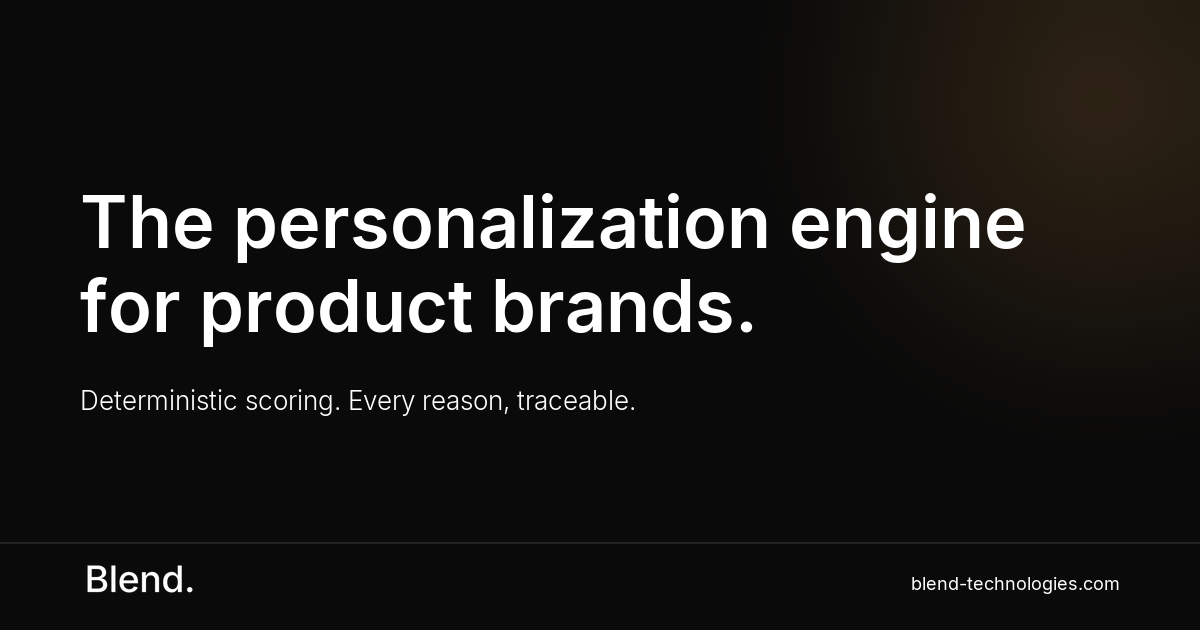
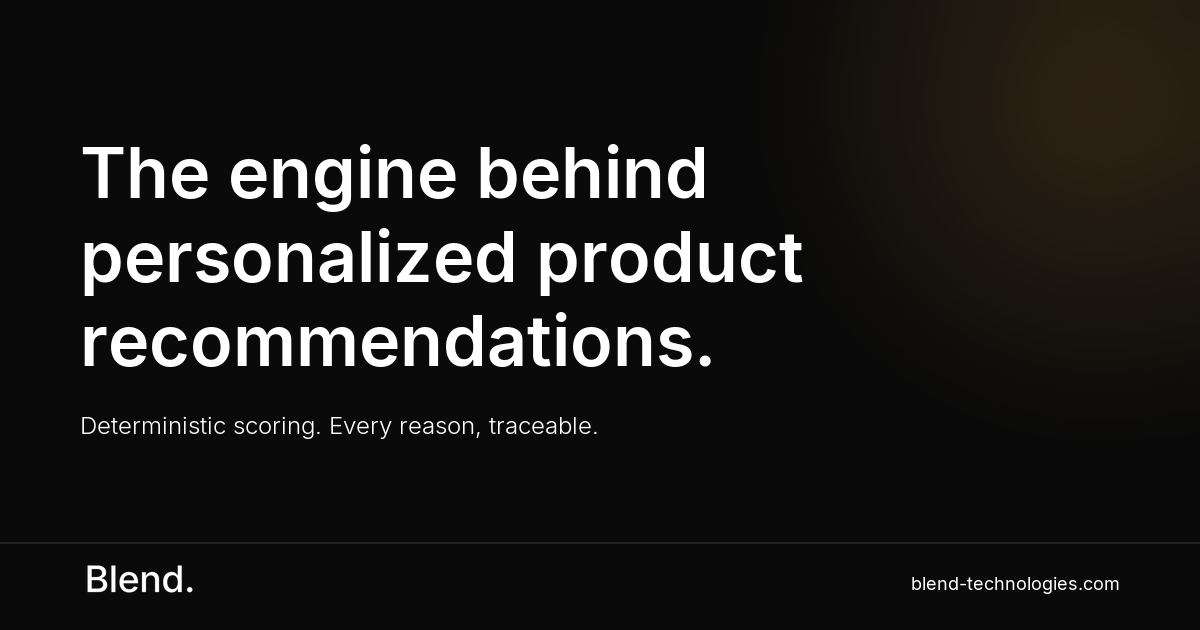
Sync tagline across the site: "The engine behind personalized product recommendations"
Replaces "The personalization engine for product brands" everywhere
it appeared. This is the new brand tagline going forward — same phrase
we'll use on LinkedIn.

Files updated (9 HTML):
  index.html, try.html, product-example.html, privacy.html, terms.html,
  use-cases/{index,shopify,supplement-brands,compare}.html

Footer tags, Organization JSON-LD description, SoftwareApplication
JSON-LD description all updated. Meta descriptions and OG descriptions
untouched (they carry longer copy that doesn't include the tagline).

OG image regenerated with the new headline split across 3 lines at
70pt Inter SemiBold — subheadline unchanged.

Changed region(s): [[0.0617, 0.2111, 0.8633, 0.6937]]

diff --git a/index.html b/index.html
@@ -25,7 +25,7 @@
 <meta name="theme-color" content="#FAF8F2">
 <link rel="canonical" href="https://www.blend-technologies.com/">
 <script type="application/ld+json">
-{"@context":"https://schema.org","@type":"Organization","name":"Blend","legalName":"Blend Technologies Ltd","url":"https://www.blend-technologies.com","logo":"https://www.blend-technologies.com/apple-touch-icon.png","description":"The personalization engine for product brands. A deterministic scoring algorithm that matches every customer to the right product from your catalog.","email":"contact@blend-technologies.com"}
+{"@context":"https://schema.org","@type":"Organization","name":"Blend","legalName":"Blend Technologies Ltd","url":"https://www.blend-technologies.com","logo":"https://www.blend-technologies.com/apple-touch-icon.png","description":"The engine behind personalized product recommendations. A deterministic scoring algorithm that matches every customer to the right product from your catalog.","email":"contact@blend-technologies.com"}
 </script>
 <script type="application/ld+json">
 {"@context":"https://schema.org","@type":"SoftwareApplication","name":"Blend","applicationCategory":"BusinessApplication","applicationSubCategory":"Product Personalization","operatingSystem":"Web","url":"https://www.blend-technologies.com/","description":"Personalized product quiz engine for brands. A deterministic scoring algorithm that matches every customer to the right product from your catalog — with the reasons behind every pick. Live today for supplement and over-the-counter health brands.","offers":{"@type":"AggregateOffer","lowPrice":"49","highPrice":"599","priceCurrency":"USD","offerCount":"3"},"featureList":["Personalized product quiz","Deterministic scoring algorithm (30+ product attributes, 20+ user signals)","Reasons behind every recommendation","Safety layer (interactions, contraindications, upper limits, synergies)","Shopify automatic sync","CSV catalog upload","White-label branding (brand, colors, domain)","Brand-specific algorithm tuning","User, Quiz, and Product analytics","15-day free trial"],"creator":{"@type":"Organization","name":"Blend Technologies Ltd"}}
@@ -864,7 +864,7 @@ button{font:inherit;border:0;cursor:pointer;background:none;color:inherit}
     <div class="footer-grid">
       <div class="footer-brand">
         <a href="#" class="logo" aria-label="Blend home"><svg xmlns="http://www.w3.org/2000/svg" viewBox="-244.60000000000002 0 6571.800000000001 2332.2" height="26" style="display:block"><g transform="translate(0 1899.6) scale(1 -1)" fill="#FFFFFF"><g transform="translate(0 0)"><path d="M165 0V1490H714Q873 1490 977.0 1438.0Q1081 1386 1132.0 1297.5Q1183 1209 1183 1099Q1183 1006 1149.0 942.5Q1115 879 1057.5 840.5Q1000 802 931 784V769Q1006 766 1077.0 721.5Q1148 677 1194.5 596.5Q1241 516 1241 401Q1241 288 1187.5 197.0Q1134 106 1023.0 53.0Q912 0 738 0ZM393 196H715Q875 196 945.0 258.0Q1015 320 1015 412Q1015 484 979.5 542.0Q944 600 879.0 634.5Q814 669 724 669H393ZM393 845H692Q767 845 828.0 874.0Q889 903 924.0 956.0Q959 1009 959 1080Q959 1172 895.0 1233.5Q831 1295 698 1295H393Z"/></g><g transform="translate(1324.52 0)"><path d="M368 1490V0H148V1490Z"/></g><g transform="translate(1820.04 0)"><path d="M630 -23Q465 -23 345.0 48.0Q225 119 160.5 248.0Q96 377 96 551Q96 723 159.5 854.0Q223 985 339.0 1058.5Q455 1132 611 1132Q707 1132 796.0 1100.5Q885 1069 956.0 1002.0Q1027 935 1068.5 828.5Q1110 722 1110 570V492H219V656H997L894 602Q894 705 862.0 783.5Q830 862 767.5 906.0Q705 950 611 950Q518 950 452.0 905.0Q386 860 351.5 786.5Q317 713 317 626V514Q317 399 356.5 319.5Q396 240 467.0 199.5Q538 159 632 159Q694 159 744.0 176.5Q794 194 830.5 229.5Q867 265 886 317L1093 268Q1066 182 1002.5 116.0Q939 50 844.5 13.5Q750 -23 630 -23Z"/></g><g transform="translate(3002.56 0)"><path d="M368 662V0H148V1118H358L360 844H337Q386 994 479.0 1063.0Q572 1132 704 1132Q818 1132 903.0 1084.0Q988 1036 1036.0 942.5Q1084 849 1084 710V0H864V683Q864 804 801.0 872.0Q738 940 628 940Q554 940 495.0 907.5Q436 875 402.0 813.0Q368 751 368 662Z"/></g><g transform="translate(4214.08 0)"><path d="M564 -22Q428 -22 322.0 47.5Q216 117 156.0 246.5Q96 376 96 556Q96 738 157.0 867.0Q218 996 324.0 1064.0Q430 1132 564 1132Q668 1132 731.5 1097.5Q795 1063 831.0 1017.0Q867 971 886 936H898V1490H1118V0H904V175H886Q867 139 830.0 93.0Q793 47 729.0 12.5Q665 -22 564 -22ZM612 165Q706 165 770.5 215.0Q835 265 868.5 353.5Q902 442 902 558Q902 675 869.0 761.5Q836 848 771.5 896.5Q707 945 612 945Q515 945 450.5 894.0Q386 843 353.5 755.5Q321 668 321 558Q321 447 354.0 358.0Q387 269 452.0 217.0Q517 165 612 165Z"/></g><g transform="translate(5459.6 0)"><path d="M311 -15Q249 -15 206.0 28.0Q163 71 163 132Q163 194 206.0 236.5Q249 279 311 279Q372 279 415.0 236.5Q458 194 458 132Q458 71 415.0 28.0Q372 -15 311 -15Z"/></g></g></svg></a>
-        <p class="footer-tag">The personalization engine for product brands.</p>
+        <p class="footer-tag">The engine behind personalized product recommendations.</p>
         <form class="footer-news" id="news-form" action="#" method="post" novalidate>
           <label for="news-email">Your work email</label>
           <input type="email" id="news-email" name="email" placeholder="Your work email" required autocomplete="email">

diff --git a/use-cases/compare.html b/use-cases/compare.html
@@ -290,7 +290,7 @@ img,svg{display:block;max-width:100%}a{color:inherit;text-decoration:none}button
     <div class="footer-grid">
       <div class="footer-brand">
         <a href="/" class="logo" aria-label="Blend home"><svg xmlns="http://www.w3.org/2000/svg" viewBox="-244.6 0 6571.8 2332.2" height="24"><g transform="translate(0 1899.6) scale(1 -1)" fill="#fff"><g><path d="M165 0V1490H714Q873 1490 977 1438Q1081 1386 1132 1297.5Q1183 1209 1183 1099Q1183 1006 1149 942.5Q1115 879 1057.5 840.5Q1000 802 931 784V769Q1006 766 1077 721.5Q1148 677 1194.5 596.5Q1241 516 1241 401Q1241 288 1187.5 197Q1134 106 1023 53Q912 0 738 0ZM393 196H715Q875 196 945 258Q1015 320 1015 412Q1015 484 979.5 542Q944 600 879 634.5Q814 669 724 669H393ZM393 845H692Q767 845 828 874Q889 903 924 956Q959 1009 959 1080Q959 1172 895 1233.5Q831 1295 698 1295H393Z"/></g><g transform="translate(1324.52 0)"><path d="M368 1490V0H148V1490Z"/></g><g transform="translate(1820.04 0)"><path d="M630 -23Q465 -23 345 48Q225 119 160.5 248Q96 377 96 551Q96 723 159.5 854Q223 985 339 1058.5Q455 1132 611 1132Q707 1132 796 1100.5Q885 1069 956 1002Q1027 935 1068.5 828.5Q1110 722 1110 570V492H219V656H997L894 602Q894 705 862 783.5Q830 862 767.5 906Q705 950 611 950Q518 950 452 905Q386 860 351.5 786.5Q317 713 317 626V514Q317 399 356.5 319.5Q396 240 467 199.5Q538 159 632 159Q694 159 744 176.5Q794 194 830.5 229.5Q867 265 886 317L1093 268Q1066 182 1002.5 116Q939 50 844.5 13.5Q750 -23 630 -23Z"/></g><g transform="translate(3002.56 0)"><path d="M368 662V0H148V1118H358L360 844H337Q386 994 479 1063Q572 1132 704 1132Q818 1132 903 1084Q988 1036 1036 942.5Q1084 849 1084 710V0H864V683Q864 804 801 872Q738 940 628 940Q554 940 495 907.5Q436 875 402 813Q368 751 368 662Z"/></g><g transform="translate(4214.08 0)"><path d="M564 -22Q428 -22 322 47.5Q216 117 156 246.5Q96 376 96 556Q96 738 157 867Q218 996 324 1064Q430 1132 564 1132Q668 1132 731.5 1097.5Q795 1063 831 1017Q867 971 886 936H898V1490H1118V0H904V175H886Q867 139 830 93Q793 47 729 12.5Q665 -22 564 -22ZM612 165Q706 165 770.5 215Q835 265 868.5 353.5Q902 442 902 558Q902 675 869 761.5Q836 848 771.5 896.5Q707 945 612 945Q515 945 450.5 894Q386 843 353.5 755.5Q321 668 321 558Q321 447 354 358Q387 269 452 217Q517 165 612 165Z"/></g></g></svg></a>
-        <p class="footer-tag">The personalization engine for product brands.</p>
+        <p class="footer-tag">The engine behind personalized product recommendations.</p>
       </div>
       <div class="footer-col"><h5>Product</h5><ul><li><a href="/#how">How it works</a></li><li><a href="/#pricing">Pricing</a></li><li><a href="/#science">Science</a></li><li><a href="/try">Try it yourself</a></li><li><a href="/#faq">FAQ</a></li></ul></div>
       <div class="footer-col"><h5>Use cases</h5><ul><li><a href="/use-cases/shopify">For Shopify brands</a></li><li><a href="/use-cases/supplement-brands">For supplement brands</a></li><li><a href="/use-cases/compare">vs other quiz tools</a></li></ul></div>

diff --git a/use-cases/index.html b/use-cases/index.html
@@ -168,7 +168,7 @@ img,svg{display:block;max-width:100%}a{color:inherit;text-decoration:none}button
     <div class="footer-grid">
       <div class="footer-brand">
         <a href="/" class="logo" aria-label="Blend home"><svg xmlns="http://www.w3.org/2000/svg" viewBox="-244.6 0 6571.8 2332.2" height="24"><g transform="translate(0 1899.6) scale(1 -1)" fill="#fff"><g><path d="M165 0V1490H714Q873 1490 977 1438Q1081 1386 1132 1297.5Q1183 1209 1183 1099Q1183 1006 1149 942.5Q1115 879 1057.5 840.5Q1000 802 931 784V769Q1006 766 1077 721.5Q1148 677 1194.5 596.5Q1241 516 1241 401Q1241 288 1187.5 197Q1134 106 1023 53Q912 0 738 0ZM393 196H715Q875 196 945 258Q1015 320 1015 412Q1015 484 979.5 542Q944 600 879 634.5Q814 669 724 669H393ZM393 845H692Q767 845 828 874Q889 903 924 956Q959 1009 959 1080Q959 1172 895 1233.5Q831 1295 698 1295H393Z"/></g><g transform="translate(1324.52 0)"><path d="M368 1490V0H148V1490Z"/></g><g transform="translate(1820.04 0)"><path d="M630 -23Q465 -23 345 48Q225 119 160.5 248Q96 377 96 551Q96 723 159.5 854Q223 985 339 1058.5Q455 1132 611 1132Q707 1132 796 1100.5Q885 1069 956 1002Q1027 935 1068.5 828.5Q1110 722 1110 570V492H219V656H997L894 602Q894 705 862 783.5Q830 862 767.5 906Q705 950 611 950Q518 950 452 905Q386 860 351.5 786.5Q317 713 317 626V514Q317 399 356.5 319.5Q396 240 467 199.5Q538 159 632 159Q694 159 744 176.5Q794 194 830.5 229.5Q867 265 886 317L1093 268Q1066 182 1002.5 116Q939 50 844.5 13.5Q750 -23 630 -23Z"/></g><g transform="translate(3002.56 0)"><path d="M368 662V0H148V1118H358L360 844H337Q386 994 479 1063Q572 1132 704 1132Q818 1132 903 1084Q988 1036 1036 942.5Q1084 849 1084 710V0H864V683Q864 804 801 872Q738 940 628 940Q554 940 495 907.5Q436 875 402 813Q368 751 368 662Z"/></g><g transform="translate(4214.08 0)"><path d="M564 -22Q428 -22 322 47.5Q216 117 156 246.5Q96 376 96 556Q96 738 157 867Q218 996 324 1064Q430 1132 564 1132Q668 1132 731.5 1097.5Q795 1063 831 1017Q867 971 886 936H898V1490H1118V0H904V175H886Q867 139 830 93Q793 47 729 12.5Q665 -22 564 -22ZM612 165Q706 165 770.5 215Q835 265 868.5 353.5Q902 442 902 558Q902 675 869 761.5Q836 848 771.5 896.5Q707 945 612 945Q515 945 450.5 894Q386 843 353.5 755.5Q321 668 321 558Q321 447 354 358Q387 269 452 217Q517 165 612 165Z"/></g></g></svg></a>
-        <p class="footer-tag">The personalization engine for product brands.</p>
+        <p class="footer-tag">The engine behind personalized product recommendations.</p>
       </div>
       <div class="footer-col"><h5>Product</h5><ul><li><a href="/#how">How it works</a></li><li><a href="/#pricing">Pricing</a></li><li><a href="/#science">Science</a></li><li><a href="/try">Try it yourself</a></li><li><a href="/#faq">FAQ</a></li></ul></div>
       <div class="footer-col"><h5>Use cases</h5><ul><li><a href="/use-cases/shopify">For Shopify brands</a></li><li><a href="/use-cases/supplement-brands">For supplement brands</a></li><li><a href="/use-cases/compare">vs other quiz tools</a></li></ul></div>

diff --git a/use-cases/shopify.html b/use-cases/shopify.html
@@ -337,7 +337,7 @@ img,svg{display:block;max-width:100%}a{color:inherit;text-decoration:none}button
     <div class="footer-grid">
       <div class="footer-brand">
         <a href="/" class="logo" aria-label="Blend home"><svg xmlns="http://www.w3.org/2000/svg" viewBox="-244.6 0 6571.8 2332.2" height="24"><g transform="translate(0 1899.6) scale(1 -1)" fill="#fff"><g><path d="M165 0V1490H714Q873 1490 977 1438Q1081 1386 1132 1297.5Q1183 1209 1183 1099Q1183 1006 1149 942.5Q1115 879 1057.5 840.5Q1000 802 931 784V769Q1006 766 1077 721.5Q1148 677 1194.5 596.5Q1241 516 1241 401Q1241 288 1187.5 197Q1134 106 1023 53Q912 0 738 0ZM393 196H715Q875 196 945 258Q1015 320 1015 412Q1015 484 979.5 542Q944 600 879 634.5Q814 669 724 669H393ZM393 845H692Q767 845 828 874Q889 903 924 956Q959 1009 959 1080Q959 1172 895 1233.5Q831 1295 698 1295H393Z"/></g><g transform="translate(1324.52 0)"><path d="M368 1490V0H148V1490Z"/></g><g transform="translate(1820.04 0)"><path d="M630 -23Q465 -23 345 48Q225 119 160.5 248Q96 377 96 551Q96 723 159.5 854Q223 985 339 1058.5Q455 1132 611 1132Q707 1132 796 1100.5Q885 1069 956 1002Q1027 935 1068.5 828.5Q1110 722 1110 570V492H219V656H997L894 602Q894 705 862 783.5Q830 862 767.5 906Q705 950 611 950Q518 950 452 905Q386 860 351.5 786.5Q317 713 317 626V514Q317 399 356.5 319.5Q396 240 467 199.5Q538 159 632 159Q694 159 744 176.5Q794 194 830.5 229.5Q867 265 886 317L1093 268Q1066 182 1002.5 116Q939 50 844.5 13.5Q750 -23 630 -23Z"/></g><g transform="translate(3002.56 0)"><path d="M368 662V0H148V1118H358L360 844H337Q386 994 479 1063Q572 1132 704 1132Q818 1132 903 1084Q988 1036 1036 942.5Q1084 849 1084 710V0H864V683Q864 804 801 872Q738 940 628 940Q554 940 495 907.5Q436 875 402 813Q368 751 368 662Z"/></g><g transform="translate(4214.08 0)"><path d="M564 -22Q428 -22 322 47.5Q216 117 156 246.5Q96 376 96 556Q96 738 157 867Q218 996 324 1064Q430 1132 564 1132Q668 1132 731.5 1097.5Q795 1063 831 1017Q867 971 886 936H898V1490H1118V0H904V175H886Q867 139 830 93Q793 47 729 12.5Q665 -22 564 -22ZM612 165Q706 165 770.5 215Q835 265 868.5 353.5Q902 442 902 558Q902 675 869 761.5Q836 848 771.5 896.5Q707 945 612 945Q515 945 450.5 894Q386 843 353.5 755.5Q321 668 321 558Q321 447 354 358Q387 269 452 217Q517 165 612 165Z"/></g></g></svg></a>
-        <p class="footer-tag">The personalization engine for product brands.</p>
+        <p class="footer-tag">The engine behind personalized product recommendations.</p>
       </div>
       <div class="footer-col"><h5>Product</h5><ul><li><a href="/#how">How it works</a></li><li><a href="/#pricing">Pricing</a></li><li><a href="/#science">Science</a></li><li><a href="/try">Try it yourself</a></li><li><a href="/#faq">FAQ</a></li></ul></div>
       <div class="footer-col"><h5>Use cases</h5><ul><li><a href="/use-cases/shopify">For Shopify brands</a></li><li><a href="/use-cases/supplement-brands">For supplement brands</a></li><li><a href="/use-cases/compare">vs other quiz tools</a></li></ul></div>

diff --git a/use-cases/supplement-brands.html b/use-cases/supplement-brands.html
@@ -312,7 +312,7 @@ img,svg{display:block;max-width:100%}a{color:inherit;text-decoration:none}button
     <div class="footer-grid">
       <div class="footer-brand">
         <a href="/" class="logo" aria-label="Blend home"><svg xmlns="http://www.w3.org/2000/svg" viewBox="-244.6 0 6571.8 2332.2" height="24"><g transform="translate(0 1899.6) scale(1 -1)" fill="#fff"><g><path d="M165 0V1490H714Q873 1490 977 1438Q1081 1386 1132 1297.5Q1183 1209 1183 1099Q1183 1006 1149 942.5Q1115 879 1057.5 840.5Q1000 802 931 784V769Q1006 766 1077 721.5Q1148 677 1194.5 596.5Q1241 516 1241 401Q1241 288 1187.5 197Q1134 106 1023 53Q912 0 738 0ZM393 196H715Q875 196 945 258Q1015 320 1015 412Q1015 484 979.5 542Q944 600 879 634.5Q814 669 724 669H393ZM393 845H692Q767 845 828 874Q889 903 924 956Q959 1009 959 1080Q959 1172 895 1233.5Q831 1295 698 1295H393Z"/></g><g transform="translate(1324.52 0)"><path d="M368 1490V0H148V1490Z"/></g><g transform="translate(1820.04 0)"><path d="M630 -23Q465 -23 345 48Q225 119 160.5 248Q96 377 96 551Q96 723 159.5 854Q223 985 339 1058.5Q455 1132 611 1132Q707 1132 796 1100.5Q885 1069 956 1002Q1027 935 1068.5 828.5Q1110 722 1110 570V492H219V656H997L894 602Q894 705 862 783.5Q830 862 767.5 906Q705 950 611 950Q518 950 452 905Q386 860 351.5 786.5Q317 713 317 626V514Q317 399 356.5 319.5Q396 240 467 199.5Q538 159 632 159Q694 159 744 176.5Q794 194 830.5 229.5Q867 265 886 317L1093 268Q1066 182 1002.5 116Q939 50 844.5 13.5Q750 -23 630 -23Z"/></g><g transform="translate(3002.56 0)"><path d="M368 662V0H148V1118H358L360 844H337Q386 994 479 1063Q572 1132 704 1132Q818 1132 903 1084Q988 1036 1036 942.5Q1084 849 1084 710V0H864V683Q864 804 801 872Q738 940 628 940Q554 940 495 907.5Q436 875 402 813Q368 751 368 662Z"/></g><g transform="translate(4214.08 0)"><path d="M564 -22Q428 -22 322 47.5Q216 117 156 246.5Q96 376 96 556Q96 738 157 867Q218 996 324 1064Q430 1132 564 1132Q668 1132 731.5 1097.5Q795 1063 831 1017Q867 971 886 936H898V1490H1118V0H904V175H886Q867 139 830 93Q793 47 729 12.5Q665 -22 564 -22ZM612 165Q706 165 770.5 215Q835 265 868.5 353.5Q902 442 902 558Q902 675 869 761.5Q836 848 771.5 896.5Q707 945 612 945Q515 945 450.5 894Q386 843 353.5 755.5Q321 668 321 558Q321 447 354 358Q387 269 452 217Q517 165 612 165Z"/></g></g></svg></a>
-        <p class="footer-tag">The personalization engine for product brands.</p>
+        <p class="footer-tag">The engine behind personalized product recommendations.</p>
       </div>
       <div class="footer-col"><h5>Product</h5><ul><li><a href="/#how">How it works</a></li><li><a href="/#pricing">Pricing</a></li><li><a href="/#science">Science</a></li><li><a href="/try">Try it yourself</a></li><li><a href="/#faq">FAQ</a></li></ul></div>
       <div class="footer-col"><h5>Use cases</h5><ul><li><a href="/use-cases/shopify">For Shopify brands</a></li><li><a href="/use-cases/supplement-brands">For supplement brands</a></li><li><a href="/use-cases/compare">vs other quiz tools</a></li></ul></div>

diff --git a/privacy.html b/privacy.html
@@ -360,7 +360,7 @@ button{font:inherit;border:0;cursor:pointer;background:none;color:inherit}
     <div class="footer-grid">
       <div class="footer-brand">
         <a href="index.html" class="logo" aria-label="Blend home"><svg xmlns="http://www.w3.org/2000/svg" viewBox="-244.60000000000002 0 6571.800000000001 2332.2" height="24"><g transform="translate(0 1899.6) scale(1 -1)" fill="#FFFFFF"><g transform="translate(0 0)"><path d="M165 0V1490H714Q873 1490 977.0 1438.0Q1081 1386 1132.0 1297.5Q1183 1209 1183 1099Q1183 1006 1149.0 942.5Q1115 879 1057.5 840.5Q1000 802 931 784V769Q1006 766 1077.0 721.5Q1148 677 1194.5 596.5Q1241 516 1241 401Q1241 288 1187.5 197.0Q1134 106 1023.0 53.0Q912 0 738 0ZM393 196H715Q875 196 945.0 258.0Q1015 320 1015 412Q1015 484 979.5 542.0Q944 600 879.0 634.5Q814 669 724 669H393ZM393 845H692Q767 845 828.0 874.0Q889 903 924.0 956.0Q959 1009 959 1080Q959 1172 895.0 1233.5Q831 1295 698 1295H393Z"/></g><g transform="translate(1324.52 0)"><path d="M368 1490V0H148V1490Z"/></g><g transform="translate(1820.04 0)"><path d="M630 -23Q465 -23 345.0 48.0Q225 119 160.5 248.0Q96 377 96 551Q96 723 159.5 854.0Q223 985 339.0 1058.5Q455 1132 611 1132Q707 1132 796.0 1100.5Q885 1069 956.0 1002.0Q1027 935 1068.5 828.5Q1110 722 1110 570V492H219V656H997L894 602Q894 705 862.0 783.5Q830 862 767.5 906.0Q705 950 611 950Q518 950 452.0 905.0Q386 860 351.5 786.5Q317 713 317 626V514Q317 399 356.5 319.5Q396 240 467.0 199.5Q538 159 632 159Q694 159 744.0 176.5Q794 194 830.5 229.5Q867 265 886 317L1093 268Q1066 182 1002.5 116.0Q939 50 844.5 13.5Q750 -23 630 -23Z"/></g><g transform="translate(3002.56 0)"><path d="M368 662V0H148V1118H358L360 844H337Q386 994 479.0 1063.0Q572 1132 704 1132Q818 1132 903.0 1084.0Q988 1036 1036.0 942.5Q1084 849 1084 710V0H864V683Q864 804 801.0 872.0Q738 940 628 940Q554 940 495.0 907.5Q436 875 402.0 813.0Q368 751 368 662Z"/></g><g transform="translate(4214.08 0)"><path d="M564 -22Q428 -22 322.0 47.5Q216 117 156.0 246.5Q96 376 96 556Q96 738 157.0 867.0Q218 996 324.0 1064.0Q430 1132 564 1132Q668 1132 731.5 1097.5Q795 1063 831.0 1017.0Q867 971 886 936H898V1490H1118V0H904V175H886Q867 139 830.0 93.0Q793 47 729.0 12.5Q665 -22 564 -22ZM612 165Q706 165 770.5 215.0Q835 265 868.5 353.5Q902 442 902 558Q902 675 869.0 761.5Q836 848 771.5 896.5Q707 945 612 945Q515 945 450.5 894.0Q386 843 353.5 755.5Q321 668 321 558Q321 447 354.0 358.0Q387 269 452.0 217.0Q517 165 612 165Z"/></g><g transform="translate(5459.6 0)"><path d="M311 -15Q249 -15 206.0 28.0Q163 71 163 132Q163 194 206.0 236.5Q249 279 311 279Q372 279 415.0 236.5Q458 194 458 132Q458 71 415.0 28.0Q372 -15 311 -15Z"/></g></g></svg></a>
-        <p class="footer-tag">The personalization engine for product brands.</p>
+        <p class="footer-tag">The engine behind personalized product recommendations.</p>
       </div>
       <div class="footer-col">
         <h5>Product</h5>

diff --git a/product-example.html b/product-example.html
@@ -281,7 +281,7 @@ button{font:inherit;border:0;cursor:pointer;background:none;color:inherit}
     <div class="footer-grid">
       <div class="footer-brand">
         <a href="index.html" class="logo" aria-label="Blend home"><svg xmlns="http://www.w3.org/2000/svg" viewBox="-244.60000000000002 0 6571.800000000001 2332.2" height="24"><g transform="translate(0 1899.6) scale(1 -1)" fill="#FFFFFF"><g transform="translate(0 0)"><path d="M165 0V1490H714Q873 1490 977.0 1438.0Q1081 1386 1132.0 1297.5Q1183 1209 1183 1099Q1183 1006 1149.0 942.5Q1115 879 1057.5 840.5Q1000 802 931 784V769Q1006 766 1077.0 721.5Q1148 677 1194.5 596.5Q1241 516 1241 401Q1241 288 1187.5 197.0Q1134 106 1023.0 53.0Q912 0 738 0ZM393 196H715Q875 196 945.0 258.0Q1015 320 1015 412Q1015 484 979.5 542.0Q944 600 879.0 634.5Q814 669 724 669H393ZM393 845H692Q767 845 828.0 874.0Q889 903 924.0 956.0Q959 1009 959 1080Q959 1172 895.0 1233.5Q831 1295 698 1295H393Z"/></g><g transform="translate(1324.52 0)"><path d="M368 1490V0H148V1490Z"/></g><g transform="translate(1820.04 0)"><path d="M630 -23Q465 -23 345.0 48.0Q225 119 160.5 248.0Q96 377 96 551Q96 723 159.5 854.0Q223 985 339.0 1058.5Q455 1132 611 1132Q707 1132 796.0 1100.5Q885 1069 956.0 1002.0Q1027 935 1068.5 828.5Q1110 722 1110 570V492H219V656H997L894 602Q894 705 862.0 783.5Q830 862 767.5 906.0Q705 950 611 950Q518 950 452.0 905.0Q386 860 351.5 786.5Q317 713 317 626V514Q317 399 356.5 319.5Q396 240 467.0 199.5Q538 159 632 159Q694 159 744.0 176.5Q794 194 830.5 229.5Q867 265 886 317L1093 268Q1066 182 1002.5 116.0Q939 50 844.5 13.5Q750 -23 630 -23Z"/></g><g transform="translate(3002.56 0)"><path d="M368 662V0H148V1118H358L360 844H337Q386 994 479.0 1063.0Q572 1132 704 1132Q818 1132 903.0 1084.0Q988 1036 1036.0 942.5Q1084 849 1084 710V0H864V683Q864 804 801.0 872.0Q738 940 628 940Q554 940 495.0 907.5Q436 875 402.0 813.0Q368 751 368 662Z"/></g><g transform="translate(4214.08 0)"><path d="M564 -22Q428 -22 322.0 47.5Q216 117 156.0 246.5Q96 376 96 556Q96 738 157.0 867.0Q218 996 324.0 1064.0Q430 1132 564 1132Q668 1132 731.5 1097.5Q795 1063 831.0 1017.0Q867 971 886 936H898V1490H1118V0H904V175H886Q867 139 830.0 93.0Q793 47 729.0 12.5Q665 -22 564 -22ZM612 165Q706 165 770.5 215.0Q835 265 868.5 353.5Q902 442 902 558Q902 675 869.0 761.5Q836 848 771.5 896.5Q707 945 612 945Q515 945 450.5 894.0Q386 843 353.5 755.5Q321 668 321 558Q321 447 354.0 358.0Q387 269 452.0 217.0Q517 165 612 165Z"/></g><g transform="translate(5459.6 0)"><path d="M311 -15Q249 -15 206.0 28.0Q163 71 163 132Q163 194 206.0 236.5Q249 279 311 279Q372 279 415.0 236.5Q458 194 458 132Q458 71 415.0 28.0Q372 -15 311 -15Z"/></g></g></svg></a>
-        <p class="footer-tag">The personalization engine for product brands.</p>
+        <p class="footer-tag">The engine behind personalized product recommendations.</p>
       </div>
       <div class="footer-col">
         <h5>Product</h5>

diff --git a/terms.html b/terms.html
@@ -283,7 +283,7 @@ button{font:inherit;border:0;cursor:pointer;background:none;color:inherit}
     <div class="footer-grid">
       <div class="footer-brand">
         <a href="index.html" class="logo" aria-label="Blend home"><svg xmlns="http://www.w3.org/2000/svg" viewBox="-244.60000000000002 0 6571.800000000001 2332.2" height="24"><g transform="translate(0 1899.6) scale(1 -1)" fill="#FFFFFF"><g transform="translate(0 0)"><path d="M165 0V1490H714Q873 1490 977.0 1438.0Q1081 1386 1132.0 1297.5Q1183 1209 1183 1099Q1183 1006 1149.0 942.5Q1115 879 1057.5 840.5Q1000 802 931 784V769Q1006 766 1077.0 721.5Q1148 677 1194.5 596.5Q1241 516 1241 401Q1241 288 1187.5 197.0Q1134 106 1023.0 53.0Q912 0 738 0ZM393 196H715Q875 196 945.0 258.0Q1015 320 1015 412Q1015 484 979.5 542.0Q944 600 879.0 634.5Q814 669 724 669H393ZM393 845H692Q767 845 828.0 874.0Q889 903 924.0 956.0Q959 1009 959 1080Q959 1172 895.0 1233.5Q831 1295 698 1295H393Z"/></g><g transform="translate(1324.52 0)"><path d="M368 1490V0H148V1490Z"/></g><g transform="translate(1820.04 0)"><path d="M630 -23Q465 -23 345.0 48.0Q225 119 160.5 248.0Q96 377 96 551Q96 723 159.5 854.0Q223 985 339.0 1058.5Q455 1132 611 1132Q707 1132 796.0 1100.5Q885 1069 956.0 1002.0Q1027 935 1068.5 828.5Q1110 722 1110 570V492H219V656H997L894 602Q894 705 862.0 783.5Q830 862 767.5 906.0Q705 950 611 950Q518 950 452.0 905.0Q386 860 351.5 786.5Q317 713 317 626V514Q317 399 356.5 319.5Q396 240 467.0 199.5Q538 159 632 159Q694 159 744.0 176.5Q794 194 830.5 229.5Q867 265 886 317L1093 268Q1066 182 1002.5 116.0Q939 50 844.5 13.5Q750 -23 630 -23Z"/></g><g transform="translate(3002.56 0)"><path d="M368 662V0H148V1118H358L360 844H337Q386 994 479.0 1063.0Q572 1132 704 1132Q818 1132 903.0 1084.0Q988 1036 1036.0 942.5Q1084 849 1084 710V0H864V683Q864 804 801.0 872.0Q738 940 628 940Q554 940 495.0 907.5Q436 875 402.0 813.0Q368 751 368 662Z"/></g><g transform="translate(4214.08 0)"><path d="M564 -22Q428 -22 322.0 47.5Q216 117 156.0 246.5Q96 376 96 556Q96 738 157.0 867.0Q218 996 324.0 1064.0Q430 1132 564 1132Q668 1132 731.5 1097.5Q795 1063 831.0 1017.0Q867 971 886 936H898V1490H1118V0H904V175H886Q867 139 830.0 93.0Q793 47 729.0 12.5Q665 -22 564 -22ZM612 165Q706 165 770.5 215.0Q835 265 868.5 353.5Q902 442 902 558Q902 675 869.0 761.5Q836 848 771.5 896.5Q707 945 612 945Q515 945 450.5 894.0Q386 843 353.5 755.5Q321 668 321 558Q321 447 354.0 358.0Q387 269 452.0 217.0Q517 165 612 165Z"/></g><g transform="translate(5459.6 0)"><path d="M311 -15Q249 -15 206.0 28.0Q163 71 163 132Q163 194 206.0 236.5Q249 279 311 279Q372 279 415.0 236.5Q458 194 458 132Q458 71 415.0 28.0Q372 -15 311 -15Z"/></g></g></svg></a>
-        <p class="footer-tag">The personalization engine for product brands.</p>
+        <p class="footer-tag">The engine behind personalized product recommendations.</p>
       </div>
       <div class="footer-col">
         <h5>Product</h5>

diff --git a/try.html b/try.html
@@ -186,7 +186,7 @@ body.is-fs-locked{overflow:hidden;touch-action:none}
     <div class="footer-grid">
       <div class="footer-brand">
         <a href="index.html" class="logo" aria-label="Blend home"><svg xmlns="http://www.w3.org/2000/svg" viewBox="-244.60000000000002 0 6571.800000000001 2332.2" height="26" style="display:block"><g transform="translate(0 1899.6) scale(1 -1)" fill="#FFFFFF"><g transform="translate(0 0)"><path d="M165 0V1490H714Q873 1490 977.0 1438.0Q1081 1386 1132.0 1297.5Q1183 1209 1183 1099Q1183 1006 1149.0 942.5Q1115 879 1057.5 840.5Q1000 802 931 784V769Q1006 766 1077.0 721.5Q1148 677 1194.5 596.5Q1241 516 1241 401Q1241 288 1187.5 197.0Q1134 106 1023.0 53.0Q912 0 738 0ZM393 196H715Q875 196 945.0 258.0Q1015 320 1015 412Q1015 484 979.5 542.0Q944 600 879.0 634.5Q814 669 724 669H393ZM393 845H692Q767 845 828.0 874.0Q889 903 924.0 956.0Q959 1009 959 1080Q959 1172 895.0 1233.5Q831 1295 698 1295H393Z"/></g><g transform="translate(1324.52 0)"><path d="M368 1490V0H148V1490Z"/></g><g transform="translate(1820.04 0)"><path d="M630 -23Q465 -23 345.0 48.0Q225 119 160.5 248.0Q96 377 96 551Q96 723 159.5 854.0Q223 985 339.0 1058.5Q455 1132 611 1132Q707 1132 796.0 1100.5Q885 1069 956.0 1002.0Q1027 935 1068.5 828.5Q1110 722 1110 570V492H219V656H997L894 602Q894 705 862.0 783.5Q830 862 767.5 906.0Q705 950 611 950Q518 950 452.0 905.0Q386 860 351.5 786.5Q317 713 317 626V514Q317 399 356.5 319.5Q396 240 467.0 199.5Q538 159 632 159Q694 159 744.0 176.5Q794 194 830.5 229.5Q867 265 886 317L1093 268Q1066 182 1002.5 116.0Q939 50 844.5 13.5Q750 -23 630 -23Z"/></g><g transform="translate(3002.56 0)"><path d="M368 662V0H148V1118H358L360 844H337Q386 994 479.0 1063.0Q572 1132 704 1132Q818 1132 903.0 1084.0Q988 1036 1036.0 942.5Q1084 849 1084 710V0H864V683Q864 804 801.0 872.0Q738 940 628 940Q554 940 495.0 907.5Q436 875 402.0 813.0Q368 751 368 662Z"/></g><g transform="translate(4214.08 0)"><path d="M564 -22Q428 -22 322.0 47.5Q216 117 156.0 246.5Q96 376 96 556Q96 738 157.0 867.0Q218 996 324.0 1064.0Q430 1132 564 1132Q668 1132 731.5 1097.5Q795 1063 831.0 1017.0Q867 971 886 936H898V1490H1118V0H904V175H886Q867 139 830.0 93.0Q793 47 729.0 12.5Q665 -22 564 -22ZM612 165Q706 165 770.5 215.0Q835 265 868.5 353.5Q902 442 902 558Q902 675 869.0 761.5Q836 848 771.5 896.5Q707 945 612 945Q515 945 450.5 894.0Q386 843 353.5 755.5Q321 668 321 558Q321 447 354.0 358.0Q387 269 452.0 217.0Q517 165 612 165Z"/></g><g transform="translate(5459.6 0)"><path d="M311 -15Q249 -15 206.0 28.0Q163 71 163 132Q163 194 206.0 236.5Q249 279 311 279Q372 279 415.0 236.5Q458 194 458 132Q458 71 415.0 28.0Q372 -15 311 -15Z"/></g></g></svg></a>
-        <p class="footer-tag">The personalization engine for product brands.</p>
+        <p class="footer-tag">The engine behind personalized product recommendations.</p>
       </div>
       <div class="footer-col">
         <h5>Product</h5>
